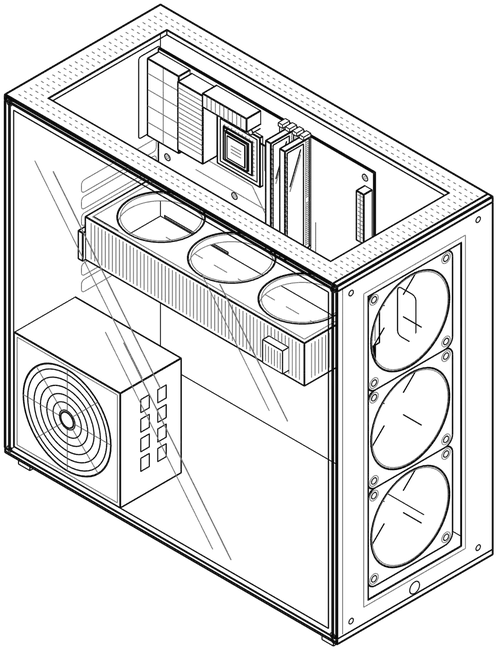
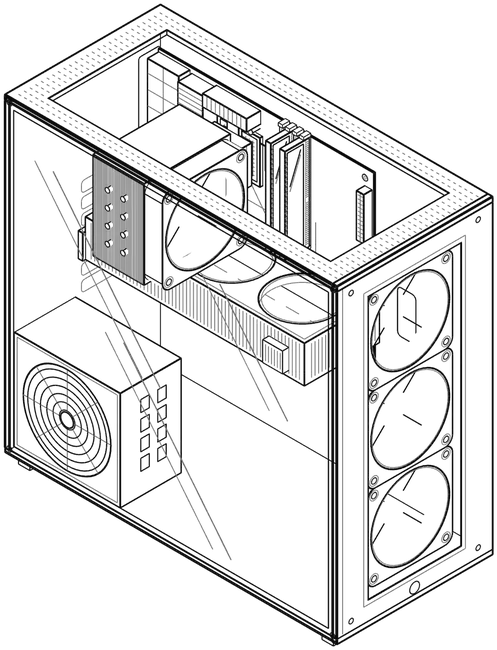
mejora hero

Changed region(s): [[0.1811, 0.1538, 0.5131, 0.4615]]

diff --git a/src/components/tower-hero.tsx b/src/components/tower-hero.tsx
@@ -33,6 +33,7 @@ const SPRITES: Record<FanSprite, string> = {
   front120: "/hero/fan-front120.webp",
   gpuA: "/hero/fan-gpuA.webp",
   gpuB: "/hero/fan-gpuB.webp",
+  psu: "/hero/fan-psu.webp",
 };
 
 /** Fondo fijo con la torre y sus ventiladores que giran con el scroll. Va en cualquier página pública. */
@@ -90,18 +91,31 @@ export function TowerBackdrop() {
           <image href={large ? BASE_LARGE : BASE_SMALL} width={TOWER_W} height={TOWER_H} className="tower-ink" opacity={INK_OPACITY} />
           {/* Brillo de las memorias RAM (color de acento, solo lo visible de ellas): respira muy despacio */}
           <image href={RAM_GLOW} width={TOWER_W} height={TOWER_H} className="tower-ram" />
+          {/* Máscaras de visibilidad: lo que tapa algo que está delante del ventilador (disipador, chasis, otro ventilador) */}
+          <defs>
+            {TOWER_FANS.map(({ mask }, i) =>
+              mask ? (
+                <mask key={i} id={`tower-mask-${i}`} maskUnits="userSpaceOnUse" x={mask.x} y={mask.y} width={mask.w} height={mask.h}>
+                  <image href={mask.href} x={mask.x} y={mask.y} width={mask.w} height={mask.h} />
+                </mask>
+              ) : null,
+            )}
+          </defs>
           {TOWER_FANS.map((fan, i) => (
-            <g key={i} transform={`matrix(${fan.m.join(" ")})`}>
-              <image
-                ref={(el) => {
-                  fanRefs.current[i] = el;
-                }}
-                href={SPRITES[fan.sprite]}
-                width={TOWER_SPRITE_PX}
-                height={TOWER_SPRITE_PX}
-                className="tower-ink"
-                opacity={INK_OPACITY}
-              />
+            // Grupo exterior sin transform: la máscara queda en coordenadas de la imagen de la torre
+            <g key={i} mask={fan.mask ? `url(#tower-mask-${i})` : undefined}>
+              <g transform={`matrix(${fan.m.join(" ")})`}>
+                <image
+                  ref={(el) => {
+                    fanRefs.current[i] = el;
+                  }}
+                  href={SPRITES[fan.sprite]}
+                  width={TOWER_SPRITE_PX}
+                  height={TOWER_SPRITE_PX}
+                  className="tower-ink"
+                  opacity={INK_OPACITY}
+                />
+              </g>
             </g>
           ))}
           <rect className="tower-led" x={TOWER_LED.x - 5} y={TOWER_LED.y - 5} width={10} height={10} fill="var(--color-accent)" />

diff --git a/src/lib/tower-hero.ts b/src/lib/tower-hero.ts
@@ -11,14 +11,25 @@
  * `public/hero/tower-base*.webp` es la torre sin aspas y con fondo transparente, y cada ventilador
  * es un sprite de aspas de frente que se coloca con una matriz afín (en px de la imagen grande).
  * `dir` = sentido de giro (el ventilador central de la GPU gira al revés).
+ * `mask` (solo si hace falta): imagen blanca con alfa = parte del ventilador que NO tapa nada que esté delante
+ * (disipador, chasis, otros ventiladores), en px de la imagen grande; se usa como máscara SVG del sprite.
  */
-export type FanSprite = "front120" | "gpuA" | "gpuB";
+export type FanSprite = "front120" | "gpuA" | "gpuB" | "psu";
+
+export interface TowerFanMask {
+  href: string;
+  x: number;
+  y: number;
+  w: number;
+  h: number;
+}
 
 export interface TowerFan {
   sprite: FanSprite;
   dir: 1 | -1;
   /** matrix(a b c d e f) del sprite (px de 320) a la imagen de la torre. */
   m: [number, number, number, number, number, number];
+  mask?: TowerFanMask;
 }
 
 export const TOWER_W = 995;
@@ -31,7 +42,8 @@ export const TOWER_FANS: TowerFan[] = [
   { sprite: "front120", dir: 1, m: [0.58888, -0.33999, 0.0, 0.67998, 716.13457, 972.35022] },
   { sprite: "front120", dir: 1, m: [0.58888, -0.33999, 0.0, 0.67998, 716.13457, 776.51657] },
   { sprite: "front120", dir: 1, m: [0.58888, -0.33999, 0.0, 0.67998, 716.13457, 580.68293] },
-  { sprite: "gpuA", dir: 1, m: [-0.58888, -0.33999, 0.58888, -0.33999, 322.62262, 541.5978] },
-  { sprite: "gpuB", dir: -1, m: [-0.58888, -0.33999, 0.58888, -0.33999, 463.95338, 623.19515] },
-  { sprite: "gpuA", dir: 1, m: [-0.58888, -0.33999, 0.58888, -0.33999, 605.28414, 704.7925] },
+  { sprite: "gpuB", dir: -1, m: [-0.58888, -0.33999, 0.58888, -0.33999, 463.95338, 623.19515], mask: { href: "/hero/mask-3.webp", x: 391, y: 466, w: 168, h: 105 } },
+  { sprite: "gpuA", dir: 1, m: [-0.58888, -0.33999, 0.58888, -0.33999, 605.28414, 704.7925], mask: { href: "/hero/mask-4.webp", x: 510, y: 540, w: 167, h: 111 } },
+  { sprite: "front120", dir: 1, m: [0.0, -0.67998, 0.58888, -0.33999, 305.28605, 596.48561], mask: { href: "/hero/mask-5.webp", x: 315, y: 326, w: 171, h: 217 } },
+  { sprite: "psu", dir: 1, m: [0.58888, 0.33999, 0.0, 0.67998, 50.46669, 670.984] },
 ];

diff --git a/CLAUDE.md b/CLAUDE.md
@@ -32,7 +32,7 @@ Sigue la política global (`~/.claude/CLAUDE.md`): planes/features grandes con l
 - **Aviso de cookies** (`components/cookie-consent.tsx`, montado en `(public)/layout`; ojo: un commit de SEO de junio lo había quitado del layout y estuvo sin mostrarse hasta 2026-09-20 — verificar que siga montado): aviso informativo con un solo botón "Entendido" (no hay nada que aceptar ni rechazar: solo cookies necesarias y reCAPTCHA); recuerda la elección en `localStorage` (`bw-cookie-consent`). Solo hay cookie necesaria (`bw_session`), sin tracking.
 - **Páginas legales** (`/tratamiento-de-datos`, `/terminos`, `/privacidad`, cuerpo en `components/legal-sections.tsx`): BORRADOR de la fase 0 del plan de cuentas de usuario. El responsable (`siteConfig.legal`) es hoy **Nicolas Andres Bermudez Angarita, persona natural** (cédula no publicada); BlacKraken aún no existe como sociedad y NO figura como responsable. Al constituirla: cambiar `responsable`/`descripcion`, subir `versionPolitica`, avisar a los titulares. El texto sigue siendo BORRADOR: revisarlo con un abogado antes de abrir el registro.
 - **Cotizador**: el precio se muestra como `≈ ...` con aviso reforzado de que es aproximado según la gama y no es el precio final.
-- **Hero de la home: la torre "real" con ventiladores que giran con el scroll (2026-09-30):** `components/tower-hero.tsx` (`TowerHero`, en `(public)/page.tsx`) reemplazó al `AssemblyHero` (torre SVG simple que se armaba con el scroll). Es la torre del proyecto de video BWReel (`/Users/nabaol/Documents/BWReel`, fuera de este repo) renderizada UNA vez como imagen, sin WebGL ni librerías en la web: `public/hero/tower-base.webp` (torre armada, sin aspas, fondo transparente; 151 KB, y `tower-base-sm.webp` de 91 KB que sirve primero en pantallas < 768 px) y `fan-front120|gpuA|gpuB.webp` (aspas de frente, ~15-19 KB cada una). Cada uno de los 6 ventiladores es un sprite colocado con la **matriz afín** de su plano (`lib/tower-hero.ts`, generado; no editar a mano), así el `rotate()` de CSS se ve como un giro real en perspectiva. El scroll (0,45° por px) escribe el atributo SVG `transform="rotate(...)"` de cada sprite (NO variables CSS ni `transform` por CSS: en Safari de iPhone no se refrescaban y las aspas no giraban); el ventilador central de la GPU gira al revés (`dir`). Torre quieta, opacidad 0,2 en claro y 0,14 en oscuro (`.tower-ink` en `globals.css`; en oscuro la línea se invierte con `filter: invert(1)`), mismo lugar que el fondo anterior (fijo, `-z-10`, centro-derecha). Una luz del frente (`.tower-led`, color de acento, NO verde, por la regla de un solo acento) parpadea una vez cada 11 s. Las **memorias RAM brillan** en el color de acento (`tower-ram.webp`, 6 KB): capa renderizada en 3D con la misma oclusión que la torre (solo se ve lo visible de las memorias; la GPU las tapa en parte) más un halo suave, que en la web solo "respira" con CSS (`.tower-ram`, opacidad 0,22 a 0,62 cada 6 s, sin invertirse en oscuro). Es un brillo pedido a propósito: la guía de diseño evita sombras y brillos, pero aquí es un detalle mínimo y en el color de acento. `prefers-reduced-motion`: sin giro (las reglas globales también congelan el parpadeo). `TowerHero` (home) y `TowerBackdrop` (solo el fondo) se exportan del mismo archivo: TODAS las páginas públicas usan la misma torre (`TowerBackdrop`); el SVG viejo (`assembly-hero.tsx`, `AssemblyHero`/`PcBackdrop`) se borró. **Regenerar** si cambia el modelo 3D: en BWReel, `python3 scripts/build-tower-assets.py` (renderiza, calcula matrices y escribe los `.webp` y `lib/tower-hero.ts` directamente en este repo). Nota: el servidor de desarrollo compila el CSS por demanda, así que tras editar `globals.css` hay que recargar la página antes de comprobar.
+- **Hero de la home: la torre "real" con ventiladores que giran con el scroll (2026-09-30):** `components/tower-hero.tsx` (`TowerHero`, en `(public)/page.tsx`) reemplazó al `AssemblyHero` (torre SVG simple que se armaba con el scroll). Es la torre del proyecto de video BWReel (`/Users/nabaol/Documents/BWReel`, fuera de este repo) renderizada UNA vez como imagen, sin WebGL ni librerías en la web: `public/hero/tower-base.webp` (torre armada, sin aspas, fondo transparente; 151 KB, y `tower-base-sm.webp` de 91 KB que sirve primero en pantallas < 768 px) y `fan-front120|gpuA|gpuB|psu.webp` (aspas de frente, ~15-19 KB cada una). Hoy son 7 ventiladores emitidos (`TOWER_FANS`): 3 del frente, 2 de la GPU (el izquierdo, el más cercano al vidrio, queda totalmente detrás del disipador y se DESCARTA), el del disipador de torre por aire que va sobre el procesador (agregado el 2026-10-02: antes la placa se veía con el CPU pelado) y el de la fuente de poder (`psu`, bajo su rejilla, como en /servicios; la rejilla va en la base). Cada uno es un sprite colocado con la **matriz afín** de su plano (`lib/tower-hero.ts`, generado; no editar a mano), así el `rotate()` de CSS se ve como un giro real en perspectiva. El scroll (0,45° por px) escribe el atributo SVG `transform="rotate(...)"` de cada sprite (NO variables CSS ni `transform` por CSS: en Safari de iPhone no se refrescaban y las aspas no giraban); el ventilador central de la GPU gira al revés (`dir`). **Máscaras de visibilidad (2026-10-02):** los sprites no saben qué tapa a su ventilador, así que BWReel calcula en 3D, por ventilador, qué parte de su disco de aspas se ve (la torre como oclusor de solo profundidad más un disco blanco en el plano de las aspas) y la guarda como `public/hero/mask-<n>.webp` (blanco con alfa, recortada a lo visible, 2-4 KB; `n` = índice en `TOWER_FANS`). Cobertura >= 98 % = sin máscara (los 3 del frente y la fuente), <= 3 % = ventilador descartado, en medio = `TowerFan.mask` `{href,x,y,w,h}` (px de la imagen grande): hoy el central y el derecho de la GPU (los recortan el disipador, su ventilador y el pilar del frente) y el del disipador (lo recorta la banda del borde superior del chasis, que ya tenía relleno oclusor). En `tower-hero.tsx` cada ventilador con máscara va en `<g mask="url(#tower-mask-i)">` (grupo EXTERIOR sin transform, así la máscara queda en coordenadas del viewBox) con `<mask maskUnits="userSpaceOnUse">` + `<image>` en `<defs>`; el `<g transform=matrix>` y el `<image>` que gira (atributo `transform` por JS) quedan dentro, y el `invert` de modo oscuro actúa solo sobre el sprite, no sobre la máscara. `fanRefs` va por índice de `TOWER_FANS` (los descartados no están). Torre quieta, opacidad 0,2 en claro y 0,14 en oscuro (`.tower-ink` en `globals.css`; en oscuro la línea se invierte con `filter: invert(1)`), mismo lugar que el fondo anterior (fijo, `-z-10`, centro-derecha). Una luz del frente (`.tower-led`, color de acento, NO verde, por la regla de un solo acento) parpadea una vez cada 11 s. Las **memorias RAM brillan** en el color de acento (`tower-ram.webp`, 6 KB): capa renderizada en 3D con la misma oclusión que la torre (solo se ve lo visible de las memorias; la GPU las tapa en parte) más un halo suave, que en la web solo "respira" con CSS (`.tower-ram`, opacidad 0,22 a 0,62 cada 6 s, sin invertirse en oscuro). Es un brillo pedido a propósito: la guía de diseño evita sombras y brillos, pero aquí es un detalle mínimo y en el color de acento. `prefers-reduced-motion`: sin giro (las reglas globales también congelan el parpadeo). `TowerHero` (home) y `TowerBackdrop` (solo el fondo) se exportan del mismo archivo: TODAS las páginas públicas usan la misma torre (`TowerBackdrop`); el SVG viejo (`assembly-hero.tsx`, `AssemblyHero`/`PcBackdrop`) se borró. **Regenerar** si cambia el modelo 3D: en BWReel, `python3 scripts/build-tower-assets.py` (renderiza, calcula matrices, máscaras y cobertura y escribe los `.webp` y `lib/tower-hero.ts` directamente en este repo; todo va primero a `public/hero.staging` y solo si sale bien se intercambia con `public/hero`, sin dejar nada a medias). Revisar a ojo con `python3 scripts/preview-tower.py [grados]` (compone base + sprites girados + máscaras como la web). Nota: el servidor de desarrollo compila el CSS por demanda, así que tras editar `globals.css` hay que recargar la página antes de comprobar.
 - **Intro de la home: "B & W" explota en la red de nodos (2026-09-29):** al cargar la home aparece "B & W" (Geist 800, `clamp(3.5rem,16vw,9rem)`, con un cuadradito de acento en la esquina de la "W") sobre vainilla; a los 900 ms los nodos del fondo salen disparados del wordmark hasta su posición (easeOutExpo, 1,4 s, curva ligera y retraso de 0-90 ms por nodo; las líneas se ven más intensas al inicio y decaen: `lineBoost`), la cubierta se funde y la página queda como siempre, con la red moviéndose e interactuando con el mouse exactamente igual que antes. Total ~2,9 s desde el inicio. Diseño validado con un plan de Opus. **Es un estado del documento, no un componente:** `<html data-intro="play|burst|done">` (`src/lib/intro.ts`, todas las constantes y tiempos allí). `INTRO_INIT_SCRIPT` (en línea, en `layout.tsx` justo después del de tema) decide ANTES de la primera pintura: solo en `/` sin hash, pestaña visible, sin `prefers-reduced-motion`, sin `saveData`, sin venir de un buscador (google/bing/duckduckgo/yahoo/ecosia/brave según `document.referrer`) y sin haberla visto en las últimas 24 h (`localStorage` `bw-intro`; localStorage y no sessionStorage porque el navegador interno de WhatsApp abre cada enlace como sesión nueva). `?intro=1` fuerza la intro (salta buscador, ahorro de datos y la marca de 24 h) pero NUNCA el movimiento reducido. Cualquier clic, toque, tecla, rueda, resize o pestaña oculta la salta (el script mismo pone `done`; el clic que salta se traga 400 ms para que no navegue por accidente); el mouse solo mover no salta. Piezas: `components/intro-overlay.tsx` (servidor, antes del header en `(public)/layout.tsx`; `display:none` sin el atributo), CSS en `globals.css` (bloque "Intro de la home"), y `NodesBackground` (fase interna de intro: `introFrame`/`startBurst`/`finishIntro`; en `play` no dibuja, en `burst` el canvas sube a `z-index:61` sobre la cubierta con la clase `bw-nodes`, en `done` vuelve a `-z-20` y entrega los nodos al `step()/draw()` de siempre; `draw(alphaMul, lineMul, nodeMul, withPointer)` con los valores por defecto dibuja idéntico a antes). `BrandWordmark` (su expansión "Build & Wire") y `CookieConsent` (+600 ms) esperan con `whenIntroDone` para no pisarla. **Regla clave: el contenido NO se oculta con opacidad**; queda pintado debajo de la cubierta opaca para que el h1 siga siendo candidato de LCP en la primera pintura (con opacity:0 el LCP se iría ~2 s). Medido en dev: FCP 516 ms, el wordmark de la cubierta es el LCP a 552 ms. Respaldo solo con CSS y JS: si nada termina la intro, la cubierta se funde sola a los 3,5 s (`bw-intro-out`), el canvas baja de capa a los 2,6 s (`bw-nodes-drop`) y el script pone `done` a los 3,6 s; sin JS no hay atributo y la cubierta no existe. Sin librería de animación (CSS + un bucle en el canvas). Marcas `performance.mark("bw-intro:burst"|"bw-intro:done")` para medir. Pruebas: `pnpm check:logic` evalúa el script con `node:vm` (18 casos: solo home, ancla, pestaña oculta, reduced-motion, saveData, buscadores, 24 h, `?intro=1`, localStorage bloqueado) y la matemática de `easeOutExpo`/`lineBoost`; en el navegador se verificó la secuencia, el salto por tecla, que `/servicios?intro=1` y una segunda visita no la muestren, modo oscuro, el respaldo CSS y que no haya errores de consola. Limitación del preview: no emula reduced-motion (se cubre con la prueba del script; probar a mano). **Incidente 2026-09-29:** en QA y producción la intro no aparecía y "B & W" se veía como texto suelto arriba a la izquierda: el HTML y el script eran los nuevos, pero el CSS servido no tenía NINGUNA regla de la intro (una compilación limpia de `origin/main` sí la genera) → caché de compilación vieja en Vercel. Arreglo: redesplegar QA y producción **sin caché de compilación** (Deployments → ⋯ → Redeploy → desmarcar "Use existing Build Cache"). Endurecimiento: la cubierta lleva `style="display:none"` en línea y el CSS la muestra con `display:flex !important` en `play`/`burst`; así, si el CSS no llega, la intro simplemente no se ve en vez de pintarse como texto. Ideas descartadas a propósito: bloquear el scroll durante la intro (movería el layout al quitar la barra) y un impulso automático al soltar el mouse (desharía las figuras que se forman al juntar puntos; si se quiere, solo como gesto al pulsar y soltar, aparte).
 - **Componentes en escena (2026-10-01):** en `/servicios`, la sección `#componentes` (h2 + párrafo en flujo normal) trae un recorrido alto con un escenario `sticky` (`top-16`, alto `100dvh-4rem`) que muestra UNA pieza a la vez (procesador, gráfica, RAM, board, fuente, chasis, refrigeración, almacenamiento) con scrub por scroll, ida y vuelta, sin capturar el scroll. **Variantes dentro de un paso (2026-10-02):** refrigeración (aire, líquida) y almacenamiento (M.2 NVMe, SSD SATA, HDD 3,5″) ocupan un tramo por variante: sale una imagen, instante vacío, entra la otra (nunca dos a la vez); el contador (`07 / 08`) y el título solo se atenúan al entrar a la pieza y al salir de ella, no entre variantes, y bajo el título una fila `Aire · Líquida` en `font-mono text-xs` resalta la variante activa (opacidad 1 vs 0,4, sin color nuevo) y la descripción mostrada es la de esa variante. Largo total 1230 svh ≈ 13,3 pantallas (11 tramos). Carga: al acercarse (IntersectionObserver) se cargan las imágenes de TODOS los tramos a la vez (no hay carga por tramo); las variantes sin versión `-sm` usan la misma imagen en móvil. Piezas: `components/component-showcase.tsx` (cliente: recorrido, bucle de scroll, alterna la torre), `components/component-piece.tsx` (SVG de una pieza) y `lib/component-showcase.ts` (matemática pura: `stageLayout(counts)` reparte el recorrido en tramos con peso —el primero de cada pieza pesa 1 = `SVH_PER_PIECE` 120 svh y cada variante extra `VARIANT_WEIGHT` 0,75 = 90 svh; con [1,1,1,1,1,1,2,3] son 10,25 unidades—; `frameAt(p, layout)` da tramo activo, pieza, variante, `t` local, opacidad/desplazamiento del tramo y `pieceOpacity` (contador y título); `frameFor(p, n)` = el caso de pesos 1, se conserva; `scrollProgress`, `trackHeight(units)`; casos en `pnpm check:logic`). Los datos (`STAGE_PIECES: Record<PieceId, { variants: [StageVariant, ...] }>` con `StageVariant = { id: VariantId, w, h, parts }`, `STAGE_ORDER`, partes `image`/`rotor`/`path` con `kind` `trace`|`air`|`flow`; `flow` = flujo dentro de los tubos de la líquida, se dibuja como `air` pero con trazo 1,5 y dash `6 10`) y las imágenes `public/servicios/*.webp` salen del proyecto BWReel: **regenerar con `python3 scripts/build-component-assets.py` en BWReel** (escribe `lib/component-stage.ts` y los `.webp` aquí; no editar a mano). Una sola fuente de textos: el arreglo `componentes` de `servicios/page.tsx` (con `id: PieceId` y, si hay pasos extra, `variants: { id: VariantId, label, d }[]` en el mismo orden que `STAGE_PIECES[id].variants`) alimenta tanto la `<dl class="cs-list">` (el `<dd>` lleva la descripción del paso y una sub-lista `<ul>` con una línea por variante, visible sin JS, con movimiento reducido y al imprimir) como `<ComponentShowcase items>`; el largo del recorrido sale de `stageLayout(items.map(i => i.variants?.length ?? 1))` en el render (igual en SSR y cliente). Si el escenario no trae una variante que la página declara, esa variante se omite del escenario pero sigue en la lista. **Progreso sin re-render:** un `IntersectionObserver` (rootMargin 150 %) activa el listener de scroll solo cerca de la pantalla y dispara la carga de imágenes (único estado React: `images` = null/`sm`/`lg`; sin `href` hasta estar cerca, así la carga inicial no baja ninguna); en cada frame (rAF) se lee UNA vez `track.getBoundingClientRect().top` y `p = (64 - top) / (alto del track - alto del escenario)`; se escribe solo lo que cambió (divs: `style.opacity/transform`; SVG: `setAttribute("transform"|"opacity"|"stroke-dashoffset")`, no variables CSS: Safari de iPhone). Tramos (uno por pieza o variante): 0 a 0,15 entra, 0,85 a 1 sale, animación propia entre 0,1 y 0,85 (slide, brillo de la RAM, trazos que se dibujan, flujo de aire, ventiladores que giran `scrolled × 0,9`°). Nunca se solapan dos tramos. Se renderiza un `PieceSvg` por TRAMO (no por pieza); refs por tramo (`slotRefs`, `varTextRefs`), por pieza (`headRefs`) y por etiqueta (`chipRefs`), se escribe solo lo que cambió y `will-change` solo en el tramo activo y el siguiente. **Torre:** mientras `0 < p < 1` el componente pone `data-tower-hidden` en `<html>`; `html[data-tower-hidden] .tower-backdrop { opacity: 0 }` (con transición) la desvanece y `TowerBackdrop.update()` sale temprano para que quede quieta; al terminar (p=1) o salir, vuelve. El cleanup del efecto SIEMPRE quita el atributo (si no, al navegar a otra página la torre quedaría oculta; verificado servicios → contacto a mitad del recorrido). **Respaldo / movimiento reducido:** el CSS decide, no el JS: `.cs-track { display: none }` y solo con `@media (scripting: enabled) and (prefers-reduced-motion: no-preference)` el recorrido se muestra y la lista `.cs-list` queda solo para lectores de pantalla (sr-only). Sin JS, con movimiento reducido o en un navegador viejo se ve la lista de siempre; además el componente escucha `matchMedia("(prefers-reduced-motion: reduce)")` y, con él, no registra nada y quita `data-tower-hidden`. En impresión se oculta el recorrido y se muestra la lista. Modo oscuro: `.piece-ink` (`filter: invert(1) contrast(.93)`) en imágenes base/slide/rotores, NO en el brillo de la RAM (`.piece-glow` pulsa solo con CSS). **Trampas:** nada de `overflow:hidden` en la sección ni en sus ancestros (rompe `sticky`); la altura del recorrido va en línea desde el SSR (`calc(1230svh + 100dvh - 4rem)` = `Math.round(unidades × 120)`, sin CLS); el escenario es `aria-hidden` y los textos usan `div`/`p`, no encabezados (el contenido semántico es la lista); con el panel del preview oculto no corren rAF ni IntersectionObserver ni las transiciones CSS: llamar `tabs_select` antes de verificar y probar con `scrollTo` + `dispatchEvent(new Event("scroll"))`; `pnpm lint` falla hoy en todo el repo por incompatibilidad de ESLint 10 con `eslint-plugin-react` (error al cargar `react/display-name`, no por este código). **Incidente 2026-10-02 (mismo patrón que la intro):** en producción la lista de Componentes se veía, el escenario aparecía encima y la torre no se ocultaba: el HTML y el JS eran los nuevos pero el CSS servido no tenía NINGUNA regla del bloque "Componentes en escena" (`cs-*`, `tower-backdrop`, `piece-*`), aunque sí las anteriores (`tower-ram`, `bw-intro`): caché de compilación vieja en Vercel. Arreglo: redesplegar **sin caché de compilación** (Deployments → ⋯ → Redeploy → desmarcar "Use existing Build Cache"). Para comprobarlo: bajar el `.css` de `/servicios` en producción y buscar `cs-track`. Endurecimiento: `.cs-track` lleva `display:none` en línea y el CSS lo muestra con `display:block !important`, así con CSS viejo se ve solo la lista de siempre. Es la segunda vez que pasa con el bloque más reciente de `globals.css`: tras cada despliegue que lo toque, verificar que las reglas nuevas estén en el CSS servido.
 
